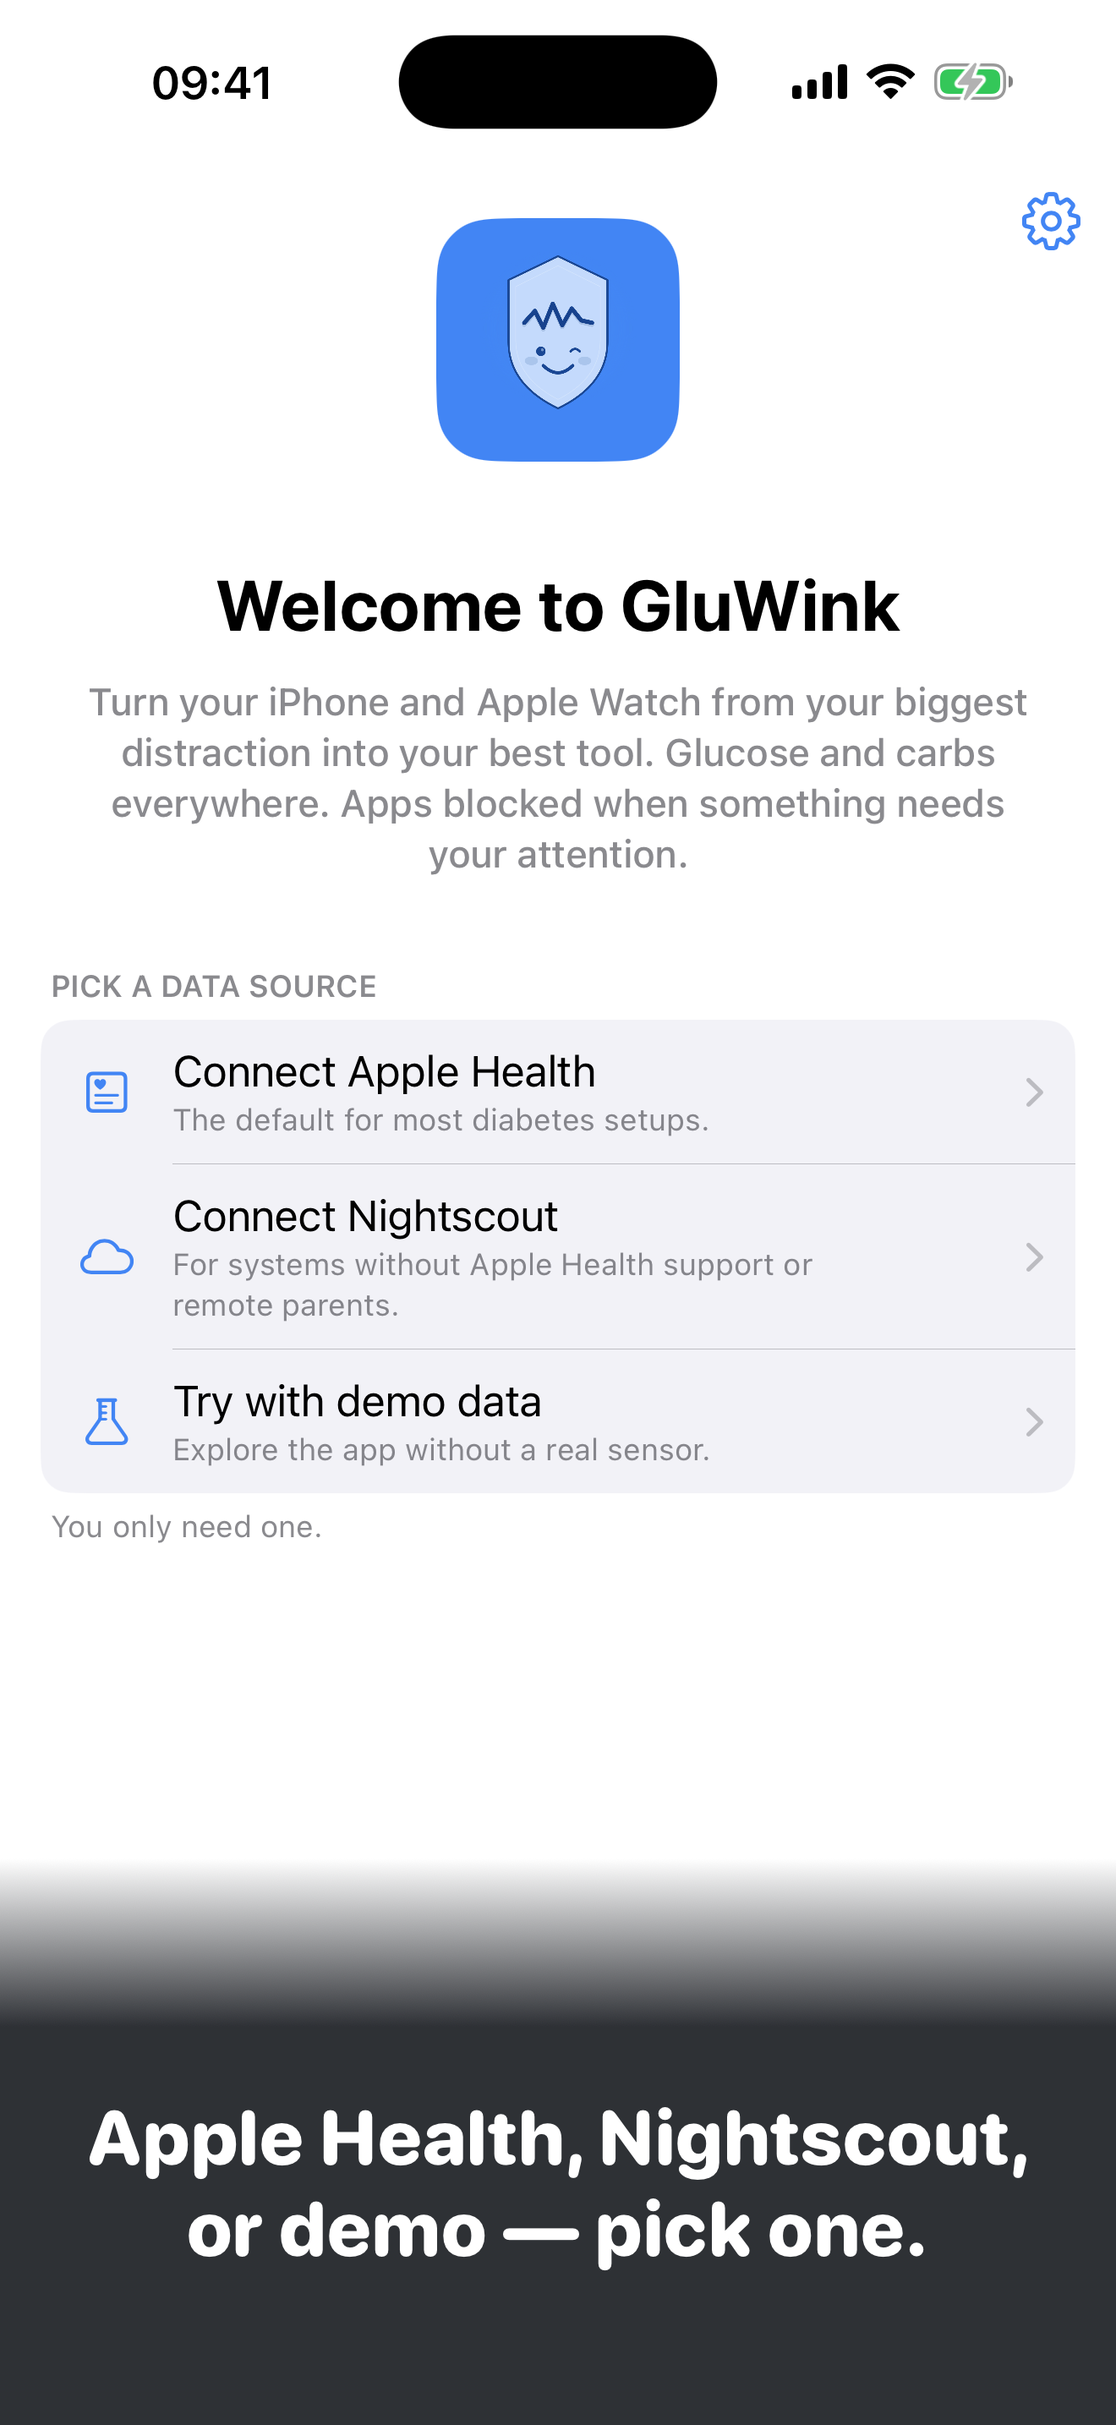
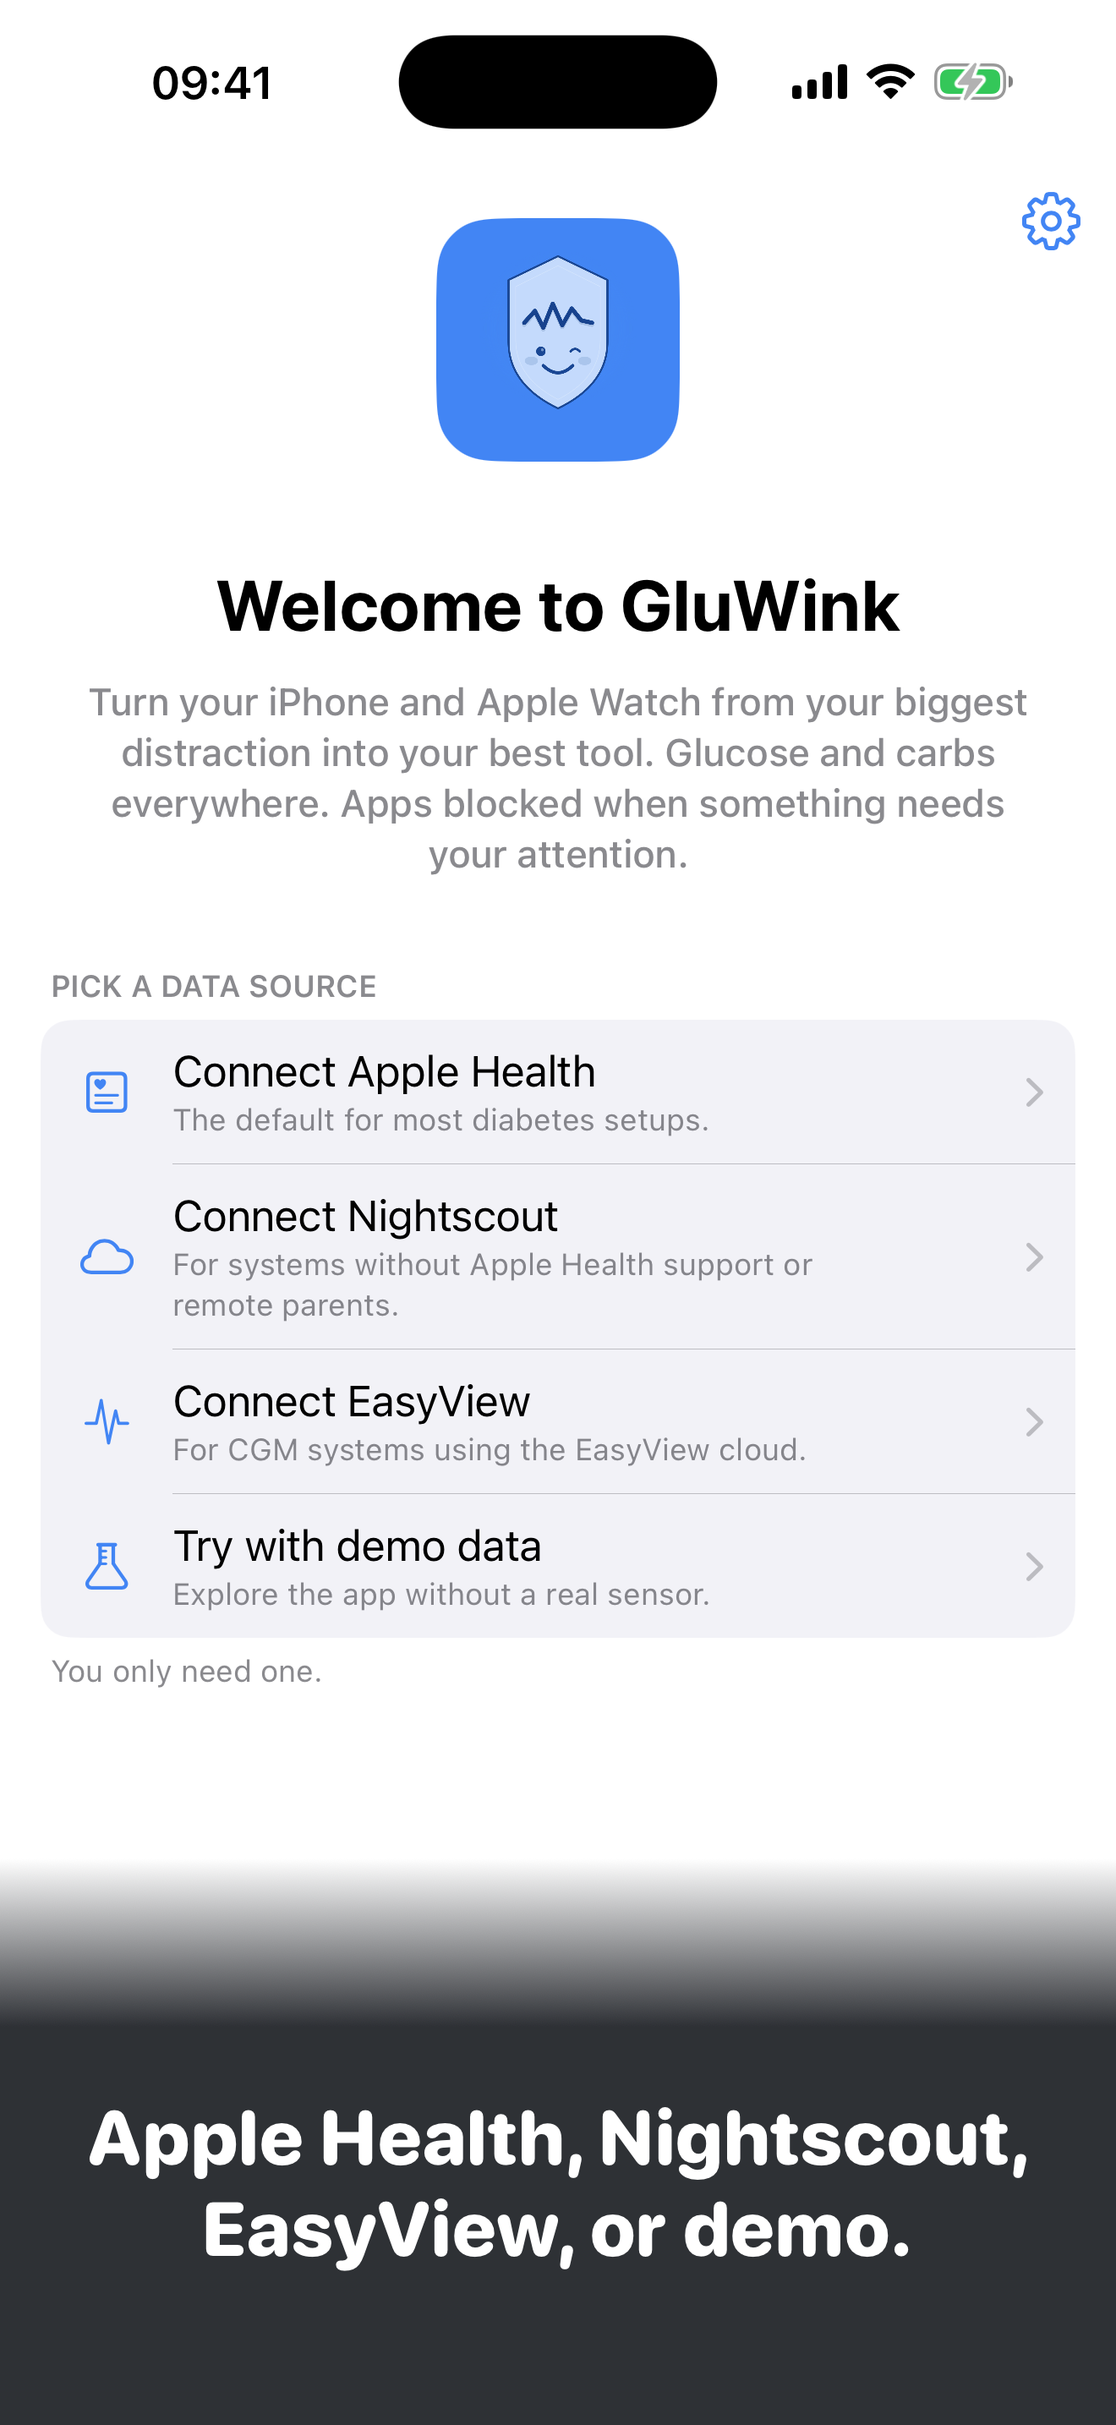
Release v1.0.0 (#141)
* docs(marketing): sync App Store + site with EasyView data source

EasyView (Medtrum's cloud) shipped as a 4th data source but the marketing
surfaces still only described Apple Health / Nightscout / Demo. Bring all
three in line ahead of the first App Store release:

- App Store copy (en-US, nl-NL): add a Medtrum's EasyView paragraph to the
  description, swap `medtrum` into keywords (dropped `health`/`t1d` to fit),
  list EasyView in What's New, and update screenshot caption 7. Trimmed two
  redundant "What you get" bullets to stay under the 4000-char budget.
- Marketing site (en/nl): new EasyView data-source card, EasyView privacy
  section, softened intro + privacy promise, updated children's-data clause
  and CGM FAQ, and refreshed meta descriptions.
- Footer: add a non-affiliation / trademark-attribution line for the
  third-party marks named throughout the copy.
- Screenshots: re-capture 05_settings + 07_setupChecklist (now showing the
  EasyView row) for both locales; sync 05_settings into the site deck.

* fix(fastlane): pass ensure_git_branch pattern as a string

The release lane passed a Regexp literal to `ensure_git_branch(branch:)`,
but the action validates the param as a String (it compiles it to a regex
internally), so the lane aborted before doing any work. Pass the same
`main`/`release/*` pattern as a string.

* chore: bump to v1.0.0 (4)

* build(appstore): add iPad and iMessage screenshots for 1.0.0
[…]

diff --git a/docs/nl/privacy.html b/docs/nl/privacy.html
@@ -8,7 +8,7 @@ hreflang_other_url: /privacy/
 permalink: /nl/privacy/
 title: "Privacybeleid"
 meta_title: "Privacybeleid — GluWink"
-meta_description: "GluWink verzamelt geen gegevens. HealthKit-data blijft op je toestel. Nightscout-data wordt rechtstreeks van je eigen server gelezen."
+meta_description: "GluWink verzamelt geen gegevens. HealthKit-data blijft op je toestel. Nightscout- en EasyView-data wordt rechtstreeks van de dienst die je verbindt gelezen."
 ---
 {%- assign p = site.data.nl.privacy_page -%}
 <p class="prose__meta">{{ p.last_updated }}</p>

diff --git a/docs/privacy.html b/docs/privacy.html
@@ -4,7 +4,7 @@ id: privacy
 permalink: /privacy/
 title: "Privacy Policy"
 meta_title: "Privacy Policy — GluWink"
-meta_description: "GluWink does not collect any data. HealthKit data stays on the device. Nightscout data is read directly from your own server."
+meta_description: "GluWink does not collect any data. HealthKit data stays on the device. Nightscout and EasyView data is read directly from the service you connect."
 ---
 {%- assign p = site.data.en.privacy_page -%}
 <p class="prose__meta">{{ p.last_updated }}</p>

diff --git a/docs/assets/css/site.css b/docs/assets/css/site.css
@@ -974,6 +974,7 @@ a:hover, a:focus-visible { text-decoration: underline; text-underline-offset: 3p
 }
 .site-footer__links a { color: var(--fg-soft); }
 .site-footer__copy { margin: 0; color: var(--fg-mute); font-size: 14px; }
+.site-footer__trademarks { margin: 4px 0 0; color: var(--fg-mute); font-size: 12px; line-height: 1.5; max-width: 70ch; }
 
 /* Prose pages (privacy / support) */
 .prose { padding: clamp(40px, 7vw, 80px) 0; }

diff --git a/docs/_includes/footer.html b/docs/_includes/footer.html
@@ -9,5 +9,8 @@
       {%- endfor -%}
     </ul>
     <p class="site-footer__copy">{{ data.footer.copyright }}</p>
+    {%- if data.footer.trademarks -%}
+    <p class="site-footer__trademarks">{{ data.footer.trademarks }}</p>
+    {%- endif -%}
   </div>
 </footer>

diff --git a/scripts/stickers/generate-imessage-promos.py b/scripts/stickers/generate-imessage-promos.py
@@ -1,0 +1,192 @@
+#!/usr/bin/env python3
+"""Compose the App Store iMessage promo screenshots for the sticker pack.
+
+App Store Connect requires at least one iMessage screenshot per required
+device tier whenever the app bundles an iMessage extension (our sticker
+pack). There is no on-device "sticker pack screen" worth screenshotting, so
+we compose a branded promo image instead — the standard approach for sticker
+packs. Outputs, for each locale:
+
+    iOS/fastlane/screenshots/iMessage/<locale>/01_stickers.png  (1242x2688 → IMESSAGE_APP_IPHONE_65)
+    iOS/fastlane/screenshots/iMessage/<locale>/02_stickers.png  (2048x2732 → IMESSAGE_APP_IPAD_PRO_3GEN_129)
+
+`deliver`'s loader treats `iMessage/` as a special expandable folder and
+buckets each PNG into a display type by pixel dimensions (see
+`deliver/lib/deliver/loader.rb` + `app_screenshot.rb`), so the two sizes can
+live side by side in one locale folder under distinct filenames.
+
+Composition (proportional to the canvas, so it works for both aspect ratios):
+  - Light iOS grouped-background wash (#F2F2F7) — reads as the Messages
+    sticker drawer rather than app chrome.
+  - Brand mark (icons/iOS.png) + localized title near the top.
+  - The three mascot stickers (green / orange / red — the brand traffic
+    light) in a row on soft drop shadows.
+  - Localized subtitle below.
+
+Run from the repo root (needs Pillow):
+
+    python3 scripts/stickers/generate-imessage-promos.py
+
+Idempotent: re-running overwrites the PNGs deterministically.
+"""
+
+from __future__ import annotations
+
+import sys
+from dataclasses import dataclass
+from pathlib import Path
+
+from PIL import Image, ImageDraw, ImageFilter, ImageFont
+
+ROOT = Path(__file__).resolve().parents[2]
+ICON_PATH = ROOT / "icons" / "iOS.png"
+STICKERPACK = ROOT / "iOS/Stickers/Stickers.xcassets/Sticker Pack.stickerpack"
+MASCOTS = [
+    STICKERPACK / "Mascot Green.sticker" / "mascot-green.png",
+    STICKERPACK / "Mascot Orange.sticker" / "mascot-orange.png",
+    STICKERPACK / "Mascot Red.sticker" / "mascot-red.png",
+]
+OUT_ROOT = ROOT / "iOS/fastlane/screenshots/iMessage"
+
+BG_COLOR = (242, 242, 247)        # #F2F2F7 — iOS grouped background
+TITLE_COLOR = (28, 28, 30)        # #1C1C1E
+SUBTITLE_COLOR = (110, 110, 115)  # #6E6E73
+
+# (filename, width, height) — fastlane buckets by dimensions, names are free.
+DEVICES = [
+    ("01_stickers.png", 1242, 2688),  # IMESSAGE_APP_IPHONE_65
+    ("02_stickers.png", 2048, 2732),  # IMESSAGE_APP_IPAD_PRO_3GEN_129
+]
+
+BOLD_FONT_CANDIDATES = [
+    "/System/Library/Fonts/Supplemental/Arial Bold.ttf",
+    "/System/Library/Fonts/Helvetica.ttc",
+    "/System/Library/Fonts/SFNS.ttf",
+]
+REGULAR_FONT_CANDIDATES = [
+    "/System/Library/Fonts/Supplemental/Arial.ttf",
+    "/System/Library/Fonts/Helvetica.ttc",
+    "/System/Library/Fonts/SFNS.ttf",
+]
+
+
+@dataclass(frozen=True)
+class Locale:
+    code: str
+    title: str
+    subtitle: str
+
+
+LOCALES = [
+    Locale("en-US", "GluWink Stickers", "The GluWink mascot, right in Messages."),
+    Locale("nl-NL", "GluWink-stickers", "De GluWink-mascotte, direct in Berichten."),
+]
+
+
+def load_font(candidates: list[str], size: int) -> ImageFont.FreeTypeFont:
+    for path in candidates:
+        if Path(path).exists():
+            try:
+                return ImageFont.truetype(path, size=size)
+            except OSError:
+                continue
+    print("WARN: no system font usable, falling back to default", file=sys.stderr)
+    return ImageFont.load_default()
+
+
+def text_size(draw: ImageDraw.ImageDraw, text: str, font) -> tuple[int, int]:
+    box = draw.textbbox((0, 0), text, font=font)
+    return box[2] - box[0], box[3] - box[1]
+
+
+def wrap(draw: ImageDraw.ImageDraw, text: str, font, max_w: int) -> list[str]:
+    words = text.split()
+    lines: list[str] = []
+    cur = ""
+    for word in words:
+        trial = f"{cur} {word}".strip()
+        if text_size(draw, trial, font)[0] <= max_w or not cur:
+            cur = trial
+        else:
+            lines.append(cur)
+            cur = word
+    if cur:
+        lines.append(cur)
+    return lines
+
+
+def drop_shadow(canvas: Image.Image, tile: Image.Image, x: int, y: int) -> None:
+    shadow = Image.new("RGBA", canvas.size, (0, 0, 0, 0))
+    layer = Image.new("RGBA", tile.size, (0, 0, 0, 70))
+    layer.putalpha(tile.split()[3].point(lambda a: int(a * 0.35)))
+    offset = max(6, tile.width // 28)
+    shadow.paste(layer, (x + offset // 2, y + offset), layer)
+    shadow = shadow.filter(ImageFilter.GaussianBlur(radius=max(8, tile.width // 18)))
+    canvas.alpha_composite(shadow)
+
+
+def render(locale: Locale, out_name: str, w: int, h: int) -> Path:
+    canvas = Image.new("RGBA", (w, h), BG_COLOR + (255,))
+    draw = ImageDraw.Draw(canvas)
+
+    side = round(w * 0.085)
+    inner_w = w - 2 * side
+
+    # --- Brand mark ---
+    icon_size = round(w * 0.16)
+    icon = Image.open(ICON_PATH).convert("RGBA").resize((icon_size, icon_size), Image.LANCZOS)
+    icon_x = (w - icon_size) // 2
+    icon_y = round(h * 0.085)
+    canvas.alpha_composite(icon, (icon_x, icon_y))
+
+    # --- Title ---
+    title_font = load_font(BOLD_FONT_CANDIDATES, round(w * 0.062))
+    tw, th = text_size(draw, locale.title, title_font)
+    title_y = icon_y + icon_size + round(h * 0.025)
+    draw.text(((w - tw) // 2, title_y), locale.title, font=title_font, fill=TITLE_COLOR)
+
+    # --- Mascot row ---
+    gap = round(w * 0.045)
+    tile_w = (inner_w - 2 * gap) // 3
+    row_y = round(h * 0.40)
+    for i, mascot_path in enumerate(MASCOTS):
+        tile = Image.open(mascot_path).convert("RGBA").resize((tile_w, tile_w), Image.LANCZOS)
+        x = side + i * (tile_w + gap)
+        drop_shadow(canvas, tile, x, row_y)
+        canvas.alpha_composite(tile, (x, row_y))
+
+    # --- Subtitle ---
+    subtitle_font = load_font(REGULAR_FONT_CANDIDATES, round(w * 0.038))
+    lines = wrap(draw, locale.subtitle, subtitle_font, inner_w)
+    line_h = text_size(draw, "Ag", subtitle_font)[1]
+    line_gap = round(line_h * 0.4)
+    sub_y = row_y + tile_w + round(h * 0.05)
+    for line in lines:
+        lw, _ = text_size(draw, line, subtitle_font)
+        draw.text(((w - lw) // 2, sub_y), line, font=subtitle_font, fill=SUBTITLE_COLOR)
+        sub_y += line_h + line_gap
+
+    out_dir = OUT_ROOT / locale.code
+    out_dir.mkdir(parents=True, exist_ok=True)
+    out_path = out_dir / out_name
+    canvas.convert("RGB").save(out_path, format="PNG", optimize=True)
+    return out_path
+
+
+def main() -> int:
+    if not ICON_PATH.exists():
+        print(f"ERROR: brand icon missing at {ICON_PATH}", file=sys.stderr)
+        return 1
+    for mascot in MASCOTS:
+        if not mascot.exists():
+            print(f"ERROR: mascot missing at {mascot}", file=sys.stderr)
+            return 1
+    for locale in LOCALES:
+        for out_name, w, h in DEVICES:
+            out = render(locale, out_name, w, h)
+            print(f"  {out.relative_to(ROOT)}  ({w}x{h})")
+    return 0
+
+
+if __name__ == "__main__":
+    sys.exit(main())

diff --git a/AppStore/nl-NL.md b/AppStore/nl-NL.md
@@ -60,7 +60,9 @@ Voor volwassenen met diabetes type 1 die zichzelf managen:
 
 GluWink leest glucose en koolhydraten uit Apple Gezondheid. De meeste CGM-apps (Dexcom, Libre, CamAPS, xDrip, Loop, iAPS en andere) schrijven hier al naartoe. Doet die van jou dat ook, dan is GluWink in één tik verbonden.
 
-Liever Nightscout? Verbind dan een Nightscout-site — handig als een ouder op afstand meekijkt, of als jouw diabetessysteem wel naar Nightscout schrijft maar niet naar Apple Gezondheid. Beide bronnen kunnen tegelijk aanstaan; de meest recente meting wint.
+Liever Nightscout? Verbind dan een Nightscout-site — handig als een ouder op afstand meekijkt, of als jouw diabetessysteem wel naar Nightscout schrijft maar niet naar Apple Gezondheid.
+
+Een Medtrum-pomp of -CGM? Verbind rechtstreeks met EasyView van Medtrum — voor patiënten én verzorgers die een patiënt volgen. Meerdere bronnen kunnen tegelijk aanstaan; de meest recente meting wint.
 
 Eerst even proberen? In de demo-modus zie je realistische glucose- en koolhydratenwaarden zonder sensor.
 
@@ -70,10 +72,8 @@ Eerst even proberen? In de demo-modus zie je realistische glucose- en koolhydrat
 • Drie-kleuren-signaal: groen (alles oké), oranje (check-in nodig), rood (kritiek hoog — schild blijft tot glucose daalt). Drempels stel je zelf in.
 • Widgets voor beginscherm, toegangsscherm en StandBy in alle formaten, met dezelfde drie aandachtskleuren.
 • Apple Watch-app en complicaties — glucose en koolhydraten op elke wijzerplaat.
-• Optionele glucosewaarde als badge op het app-icoon.
 • Instelbare drempels, intervallen en een dagelijkse koolhydraten-coulance (zodat ontbijtgranen om 7 uur 's ochtends geen alarm worden).
 • Apps altijd blokkeren, alleen bij aandacht, of helemaal niet — jij bepaalt.
-• Een korte cooldown na de check-in, zodat dat moment ook echt gebruikt wordt om iets te dóen.
 • Volledig in het Nederlands en Engels.
 
 — Eerlijk over wat GluWink niet is —
@@ -86,14 +86,14 @@ GluWink is open source. Je gegevens blijven op je toestel (via HealthKit) of op 
 
 Diabetes type 1 stopt nooit. Je telefoon hoeft daar niet aan mee te doen.
 ```
-*(~3,950 / 4000 — tight; trim iets voordat je nieuw feature-bullet toevoegt)*
+*(~3,932 / 4000 — tight; trim iets voordat je nieuw feature-bullet toevoegt)*
 
 ## Keywords (100)
 
 ```
-diabetes,type 1,t1d,glucose,cgm,dexcom,libre,nightscout,koolhydraten,kind,ouder,schermtijd,schild
+diabetes,type 1,glucose,cgm,dexcom,libre,nightscout,koolhydraten,ouder,schermtijd,schild,medtrum
 ```
-*(99 / 100)*
+*(96 / 100)*
 
 Opmerkingen:
 - Apple indexeert geen woorden uit de appnaam of categorie — laat die hier weg.
@@ -109,7 +109,7 @@ Hallo wereld.
 Dit is de eerste publieke release van GluWink. Probeer je het op de telefoon van je kind, op je eigen toestel, of gewoon om te zien wat het doet — bedankt. Open een issue of een discussie op GitHub als er iets niet voelt zoals het hoort.
 
 Hoogtepunten in 1.0:
-• Apple Gezondheid en Nightscout als gegevensbron, met optionele demo-modus.
+• Apple Gezondheid, Nightscout en EasyView van Medtrum als gegevensbron, met optionele demo-modus.
 • Vriendelijk check-in-schild met status in drie kleuren — groen, oranje en rood bij een kritieke hoge waarde.
 • Widgets voor beginscherm, toegangsscherm en StandBy.
 • Apple Watch-app en complicaties.
@@ -133,7 +133,7 @@ Scènevolgorde komt overeen met de tabel in `README.md` → Screenshots.
 | 4 | Glucose en koolhydraten op elk scherm. |
 | 5 | Stel alerts in, kies een bron, regel het schild — jouw keuze. |
 | 6 | Glucose en koolhydraten op elke wijzerplaat. |
-| 7 | Apple Gezondheid, Nightscout of demo — kies één. |
+| 7 | Apple Gezondheid, Nightscout, EasyView of demo. |
 
 ### Apple Watch (46mm)
 

diff --git a/AppStore/en-US.md b/AppStore/en-US.md
@@ -58,7 +58,9 @@ For adults managing their own Type 1:
 
 GluWink reads glucose and carbs from Apple Health. Most CGM apps (Dexcom, Libre, CamAPS, xDrip, Loop, iAPS, and others) already write to Apple Health. If yours does, GluWink is a one-tap connection.
 
-Prefer Nightscout? Connect a Nightscout site instead — handy when a parent is monitoring a child remotely, or when the diabetes system writes to Nightscout but not Apple Health. Both sources can be on at the same time; the most recent reading wins.
+Prefer Nightscout? Connect a Nightscout site instead — handy when a parent is monitoring a child remotely, or when the diabetes system writes to Nightscout but not Apple Health.
+
+On a Medtrum pump or CGM? Connect Medtrum's EasyView cloud directly — for patients and for caregivers following a patient. Any source can be on at once; the most recent reading wins.
 
 Want to try the app first? Demo mode shows realistic glucose and carb data without any sensor.
 
@@ -68,10 +70,8 @@ Want to try the app first? Demo mode shows realistic glucose and carb data witho
 • Three-way signal: green (all clear), orange (check-in needed), red (critical — shield locked until glucose drops). Thresholds are yours to set.
 • Home Screen, Lock Screen, and StandBy widgets in every size, tinted with the same three-color attention signal.
 • Apple Watch app and complications — glucose and carbs at a glance, on every watch face.
-• Optional glucose number on the app icon badge.
 • Configurable thresholds, intervals, and a daily carb grace period (so 6am cereal isn't an emergency).
 • Block apps always, only when attention is needed, or not at all — you decide.
-• A short cooldown after the check-in, so the moment is used to actually do the thing.
 • English and Dutch throughout.
 
 — Honest about what GluWink is not —
@@ -84,14 +84,14 @@ GluWink is open source. Your data stays on your device (with HealthKit) or on th
 
 Type 1 diabetes is relentless. The phone doesn't have to be.
 ```
-*(~3,995 / 4000 — tight; trim an existing bullet before adding a new one)*
+*(~3,972 / 4000 — tight; trim an existing bullet before adding a new one)*
 
 ## Keywords (100)
 
 ```
-diabetes,type 1,t1d,glucose,cgm,dexcom,libre,nightscout,carbs,kids,parents,screen time,shield,health
+diabetes,type 1,glucose,cgm,dexcom,libre,nightscout,carbs,kids,parents,screen time,shield,medtrum
 ```
-*(99 / 100)*
+*(97 / 100)*
 
 Notes:
 - Do **not** repeat words from the app name or category — Apple already indexes those.
@@ -107,7 +107,7 @@ Hello world.
 This is the first public release of GluWink. If you're trying it on your kid's phone, on your own phone, or just to see what it does — thank you. Open an issue or start a discussion on GitHub if anything feels off.
 
 Highlights in 1.0:
-• Apple Health and Nightscout data sources, with optional demo mode.
+• Apple Health, Nightscout, and Medtrum's EasyView data sources, with optional demo mode.
 • Friendly check-in shield with a three-color status — green, orange, red for critical highs.
 • Home Screen, Lock Screen, and StandBy widgets.
 • Apple Watch app and complications.
@@ -131,7 +131,7 @@ Scene order matches the table in `README.md` → Screenshots.
 | 4 | Glucose and carbs on every screen. |
 | 5 | Tune alerts, pick a data source, shape the shield — your call. |
 | 6 | Glucose and carbs on every watch face. |
-| 7 | Apple Health, Nightscout, or demo — pick one. |
+| 7 | Apple Health, Nightscout, EasyView, or demo. |
 
 ### Apple Watch (46mm)
 
